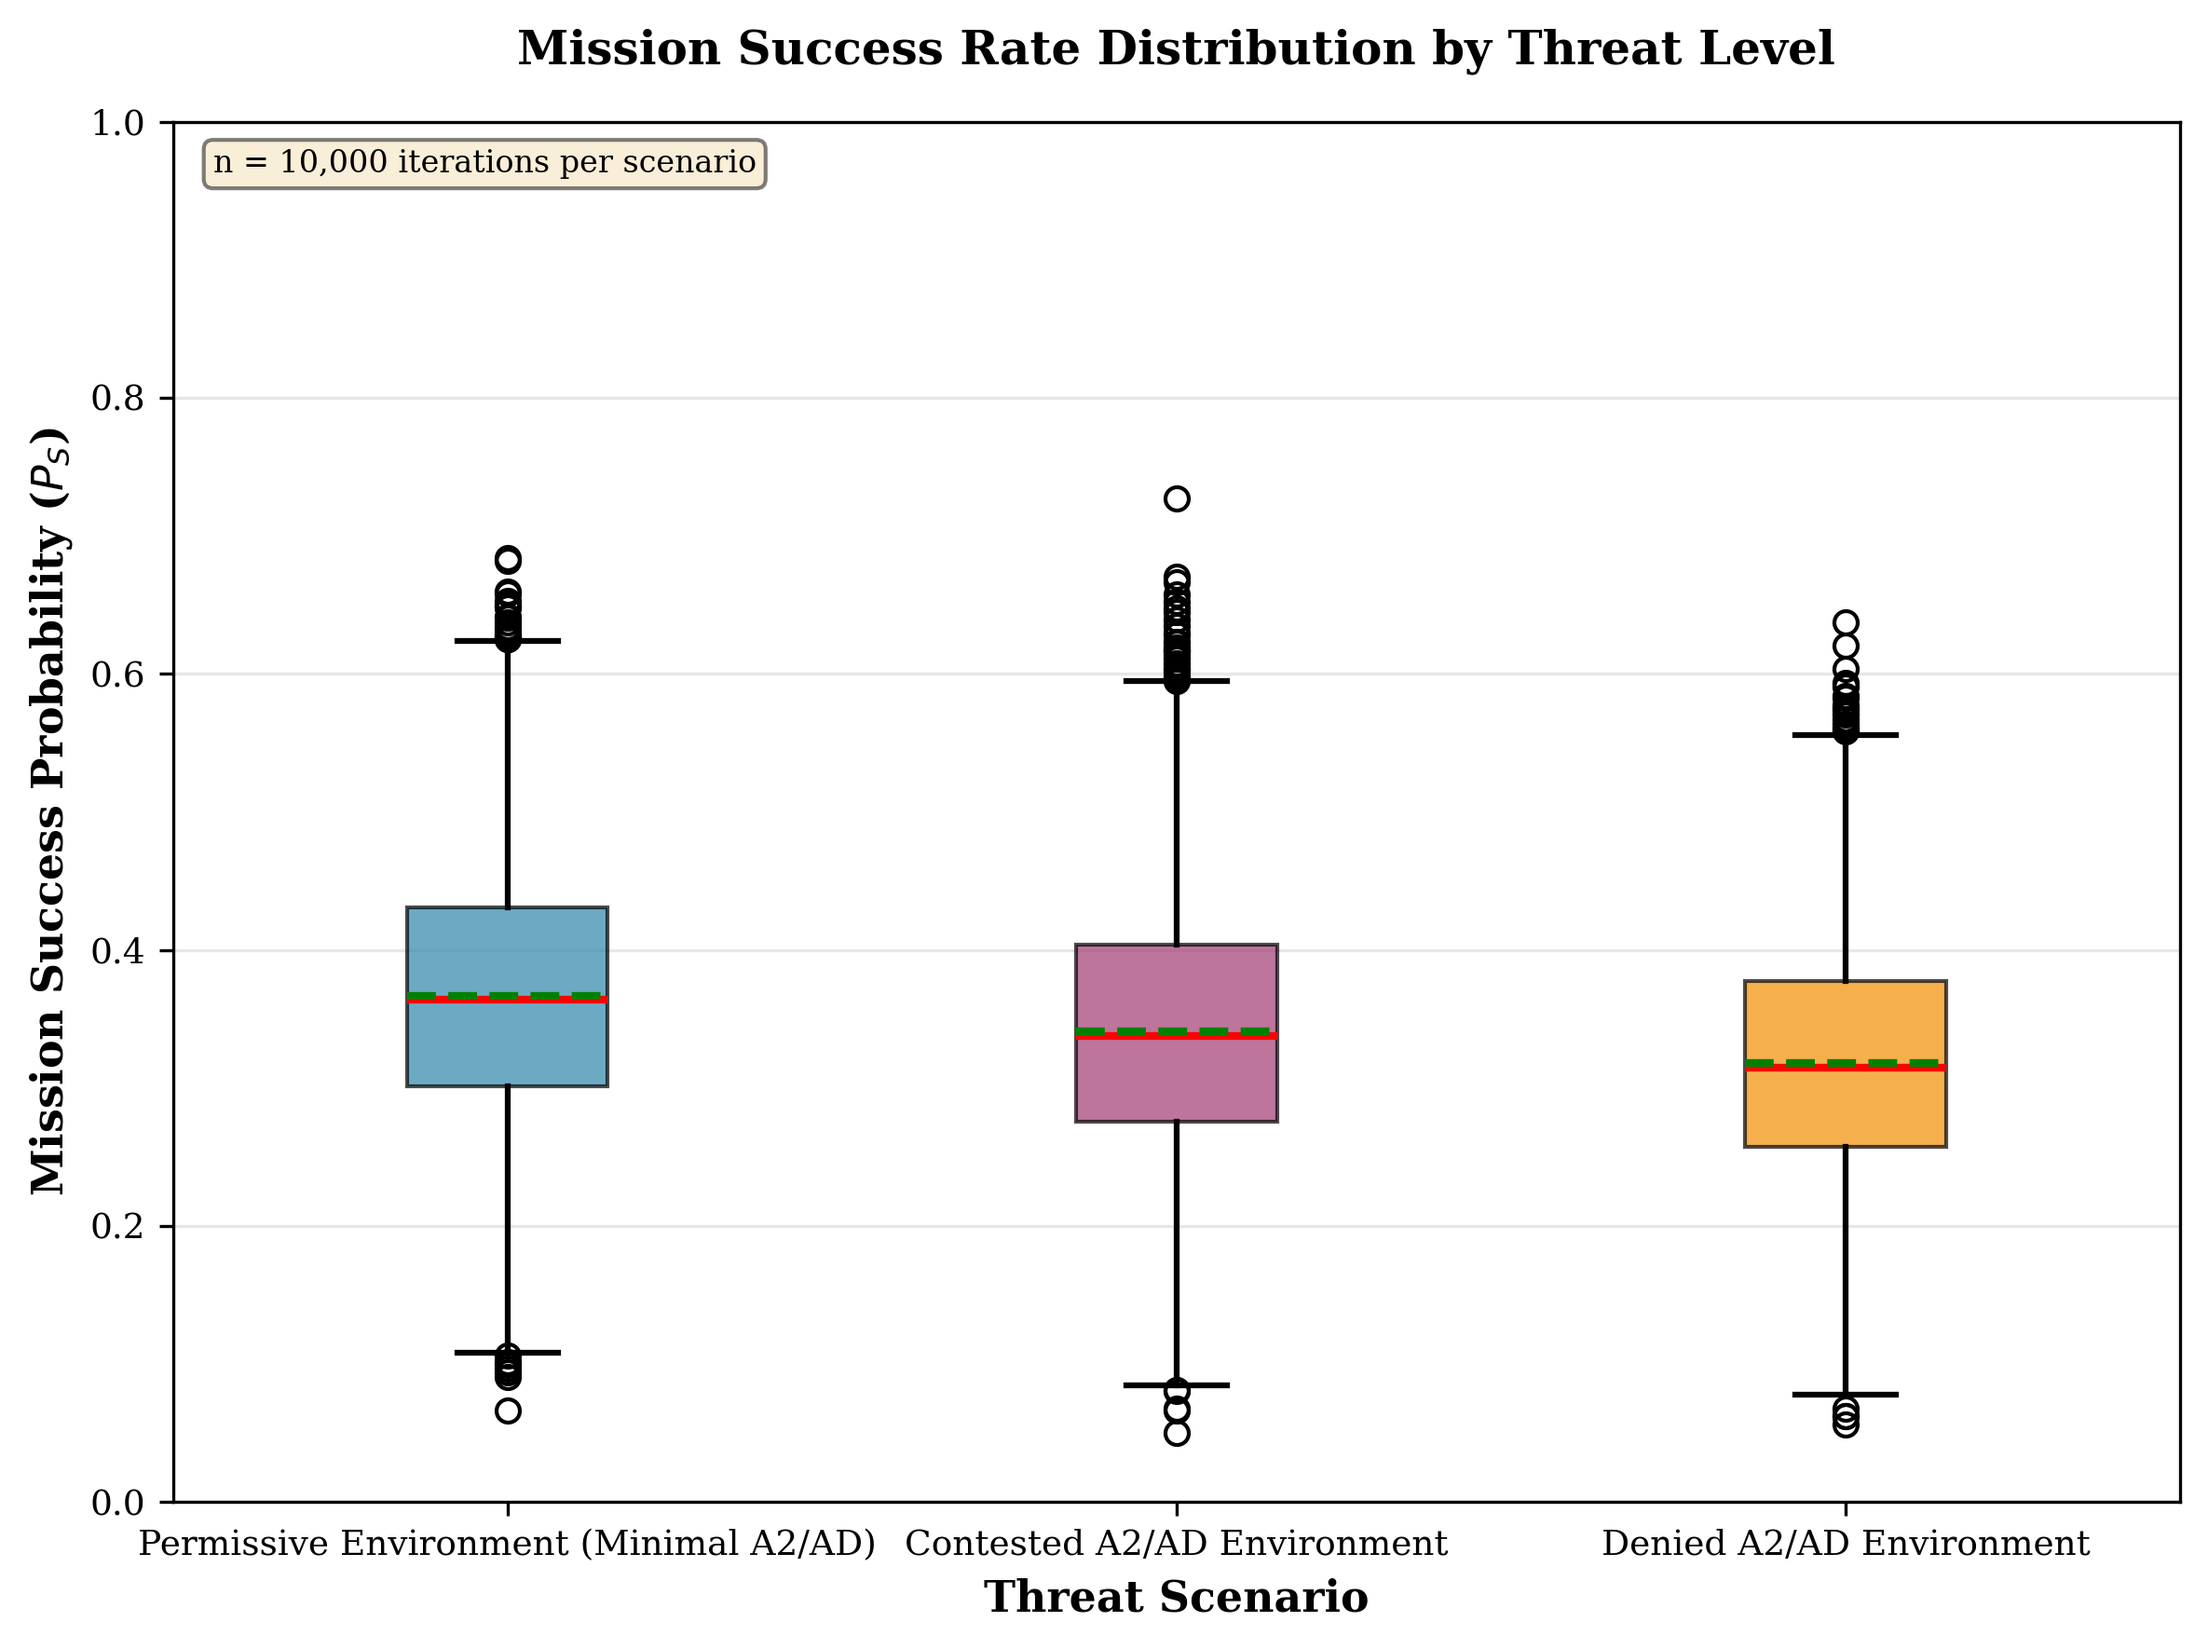
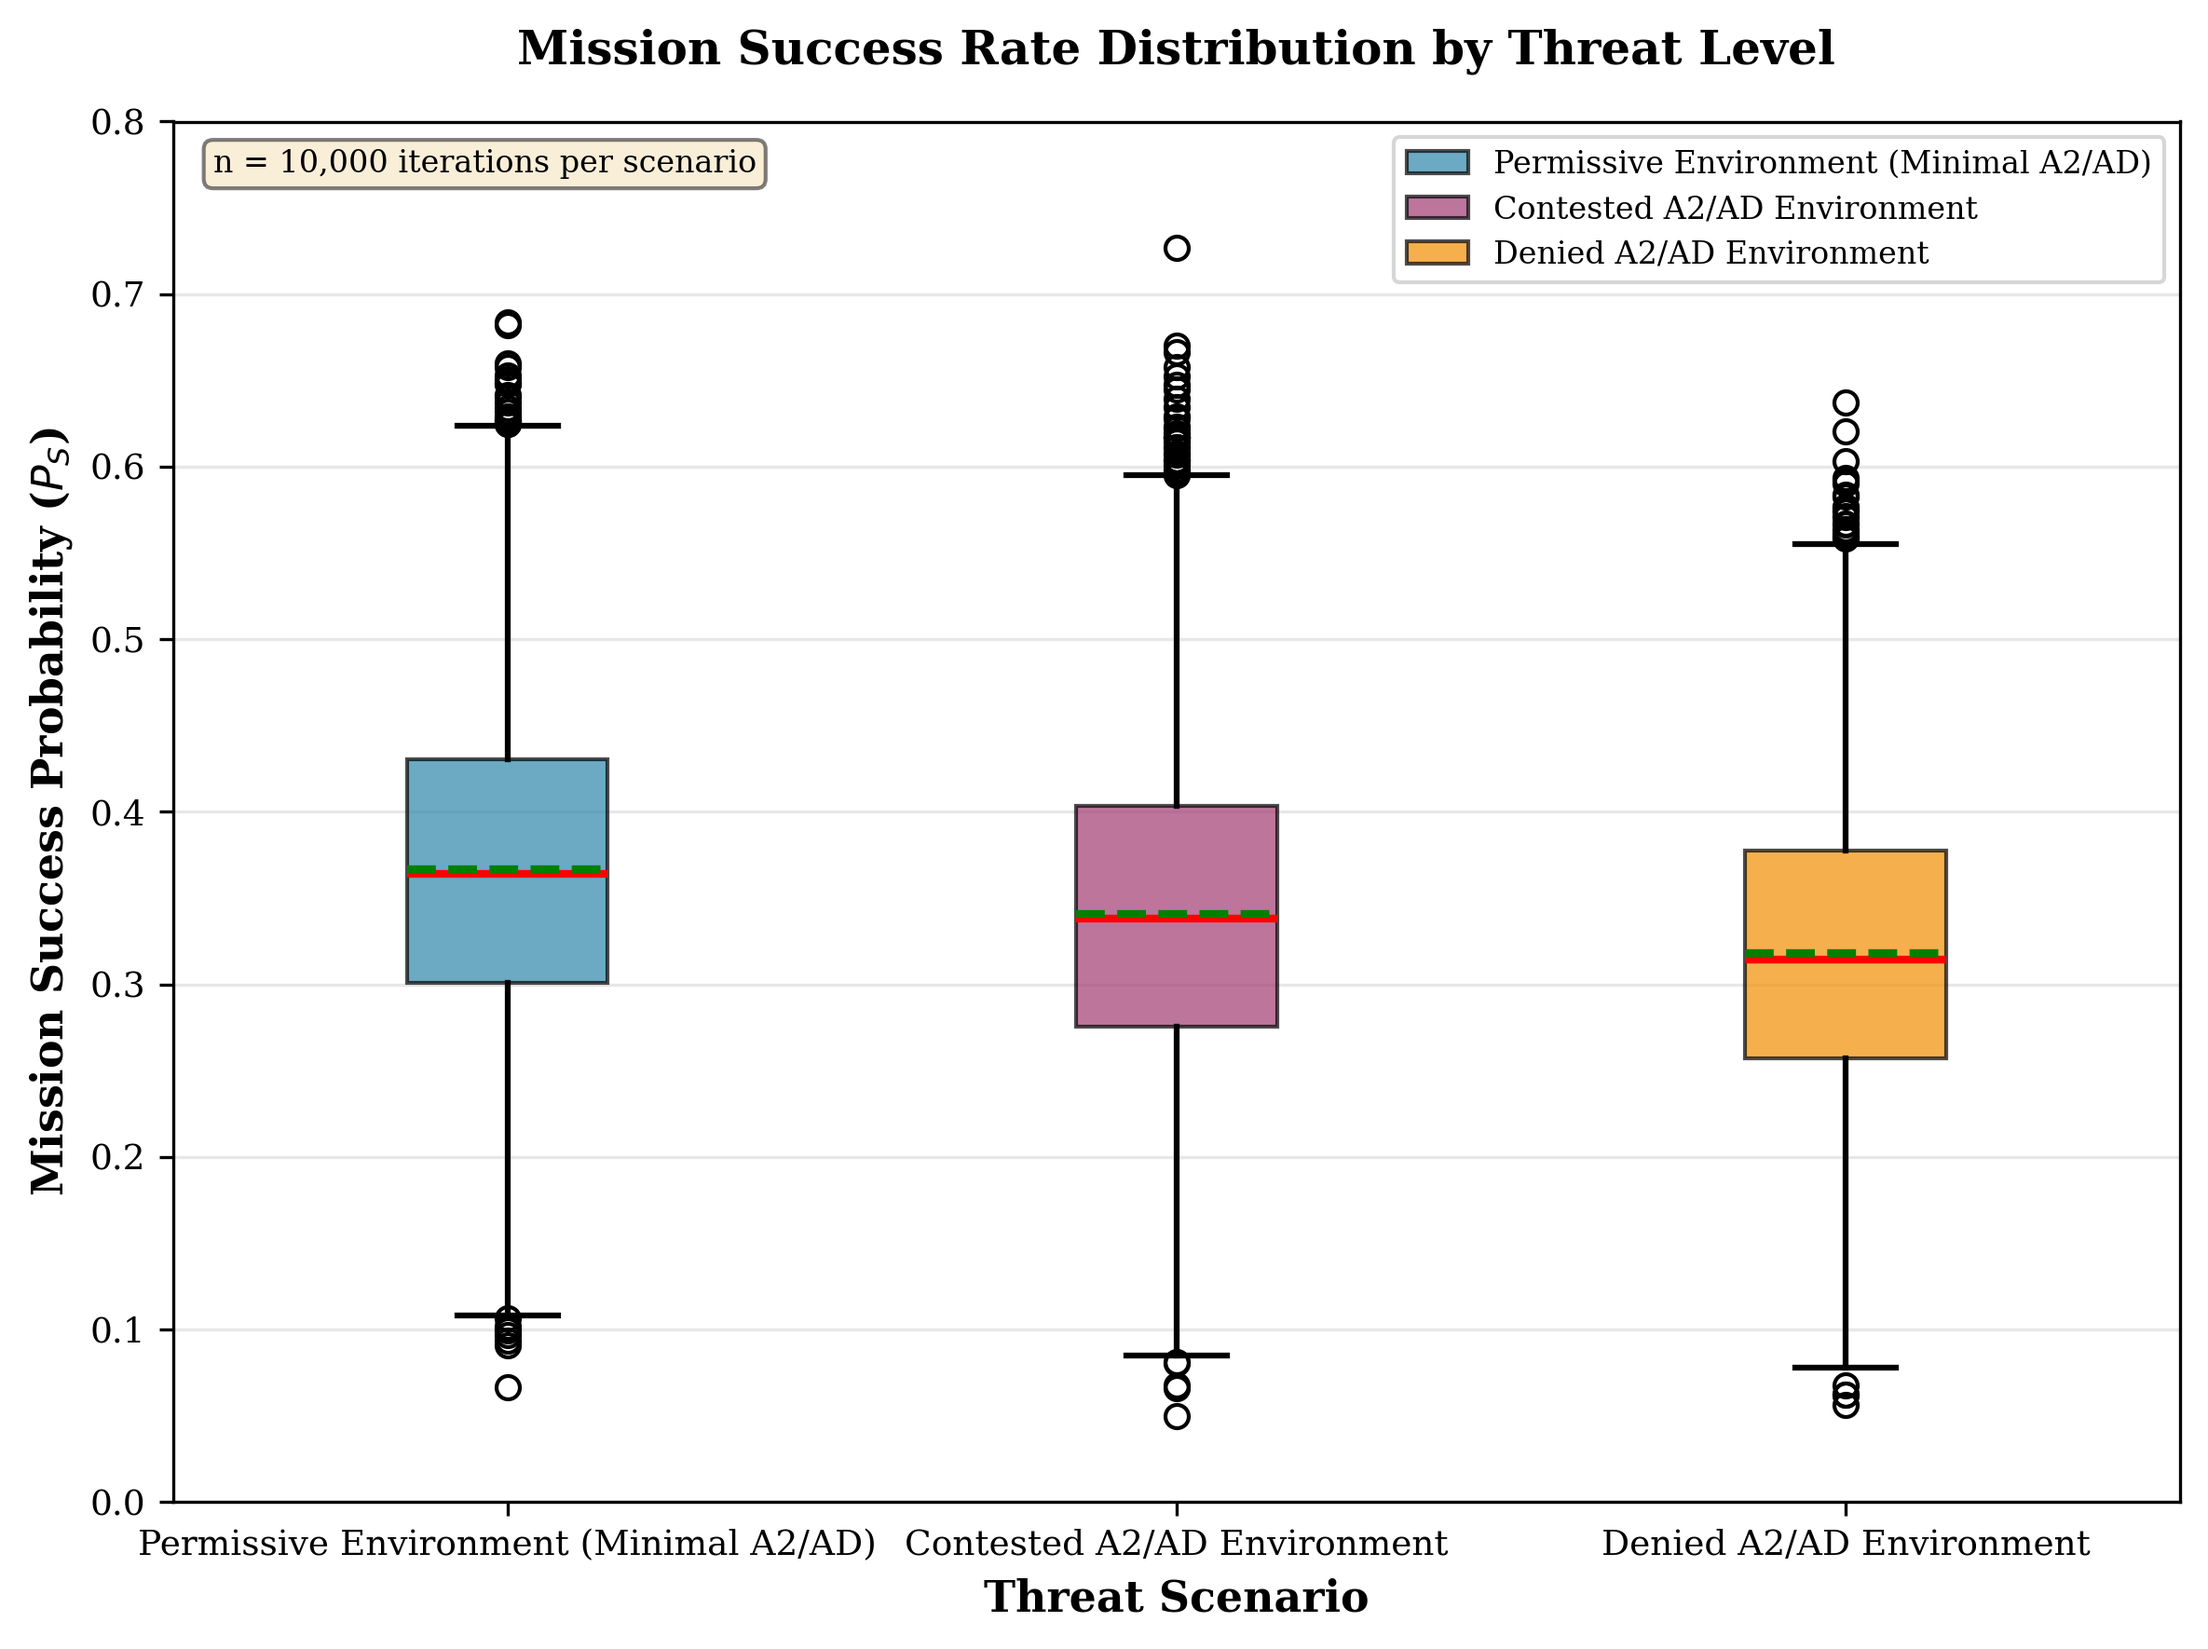
update figures

diff --git a/visualization.py b/visualization.py
@@ -94,7 +94,8 @@ class SimulationVisualizer:
         ax.set_title('Mission Success Rate Distribution by Threat Level', 
                     fontweight='bold', pad=15)
         ax.grid(True, alpha=0.3, axis='y')
-        ax.set_ylim(0, 1)
+        ax.set_ylim(0, 0.8)
+        ax.legend(bp['boxes'], scenarios, loc='upper right', fontsize=8)
         
         # Add sample size annotation
         ax.text(0.02, 0.98, f'n = {len(data_to_plot[0]):,} iterations per scenario',
@@ -116,7 +117,7 @@ class SimulationVisualizer:
         
         Shows the probability of achieving various P_S thresholds.
         """
-        fig, ax = plt.subplots(figsize=(8, 6))
+        fig, ax = plt.subplots(figsize=(8, 4))
         
         scenarios = self.results_df['scenario'].unique()
         
@@ -134,7 +135,7 @@ class SimulationVisualizer:
                     fontweight='bold', pad=15)
         ax.legend(loc='lower right', framealpha=0.9)
         ax.grid(True, alpha=0.3)
-        ax.set_xlim(0, 1)
+        ax.set_xlim(0, 0.8)
         ax.set_ylim(0, 1)
         
         plt.tight_layout()

diff --git a/sensitivity_analysis.py b/sensitivity_analysis.py
@@ -453,7 +453,7 @@ class SensitivityAnalyzer:
                         fontweight='bold')
             ax.grid(True, alpha=0.3)
             ax.legend(loc='best', fontsize=8)
-            ax.set_ylim(0, 0.8)
+            ax.set_ylim(0, 0.5)
         
         # Handle guidance type separately (categorical)
         if 'guidance' in self.results:
@@ -471,7 +471,7 @@ class SensitivityAnalyzer:
             ax.set_xlabel('Guidance Type', fontweight='bold')
             ax.set_title('Sensitivity to Guidance Type', fontweight='bold')
             ax.grid(True, alpha=0.3, axis='y')
-            ax.set_ylim(0, 0.8)
+            ax.set_ylim(0, 0.5)
         
         fig.suptitle('Parameter Sensitivity Curves - Medium Threat Baseline',
                     fontweight='bold', fontsize=14, y=0.995)
